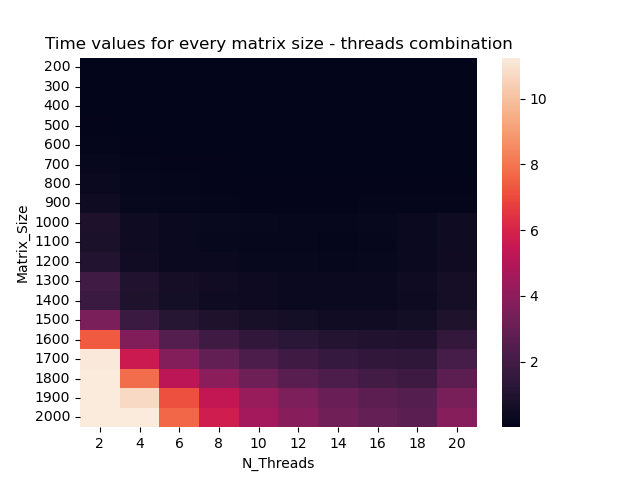
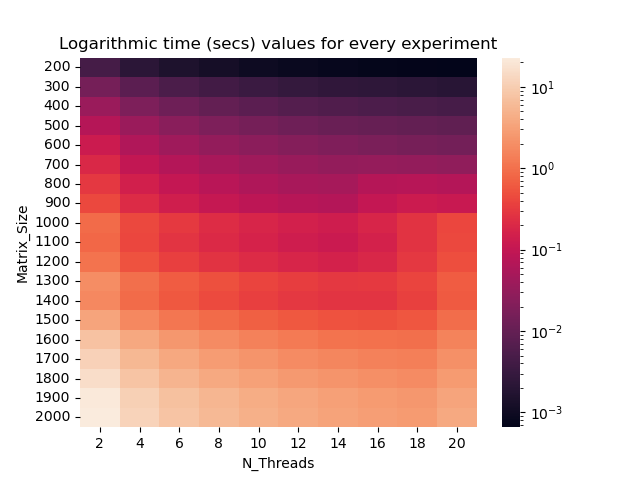
Set logarithmic color scale in heatmap

diff --git a/graphics.py b/graphics.py
@@ -3,6 +3,7 @@ from argparse import ArgumentParser
 import matplotlib.pyplot as plt
 import pandas as pd
 import seaborn as sns
+from matplotlib.colors import LogNorm
 
 parser = ArgumentParser(description="Create graphics from the experiments data.")
 parser.add_argument(
@@ -18,9 +19,9 @@ data["Time (secs)"] = data["Time"] * 10**-6
 heatmap = data.pivot_table(
     values="Time (secs)", index="Matrix_Size", columns="N_Threads", aggfunc="mean"
 )
-ax = sns.heatmap(heatmap, robust=True)
-ax.set_title("Time values for every matrix size - threads combination")
-plt.savefig("size-threads-time.png")
+ax = sns.heatmap(heatmap, norm=LogNorm())
+ax.set_title("Logarithmic time (secs) values for every experiment")
+plt.savefig("img/size-threads-time.png")
 plt.clf()
 plt.cla()
 
@@ -31,7 +32,7 @@ ax.set_xticks(range(2, 21, 2))
 ax.set_xlim(2, 20)
 ax.grid(axis="both", which="both", linestyle="--")
 ax.set_title("Number of threads vs Time for some matrix sizes")
-plt.savefig("threads-time.png")
+plt.savefig("img/threads-time.png")
 plt.clf()
 plt.cla()
 
@@ -42,4 +43,4 @@ ax = sns.lineplot(
 ax.grid(axis="both", which="both", linestyle="--")
 ax.set_title("Matrix size vs Time for every number of threads")
 ax.set_xlim(200, 2000)
-plt.savefig("size-time.png")
+plt.savefig("img/size-time.png")
